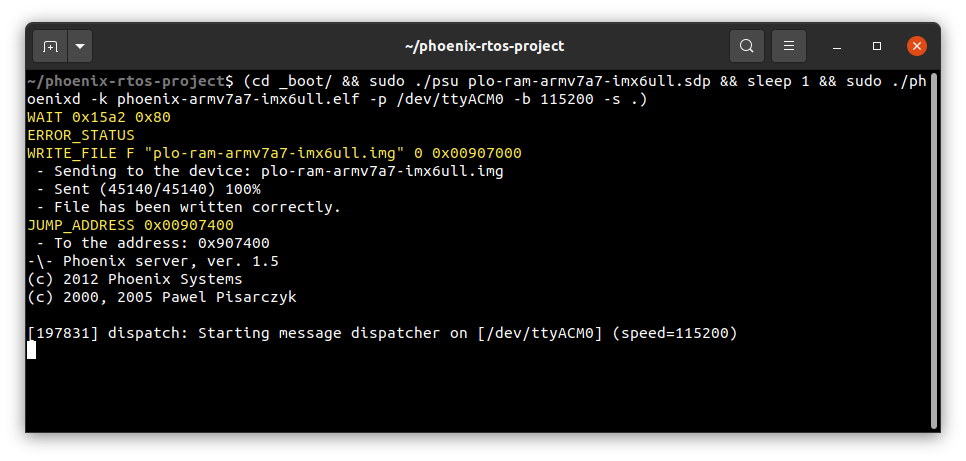
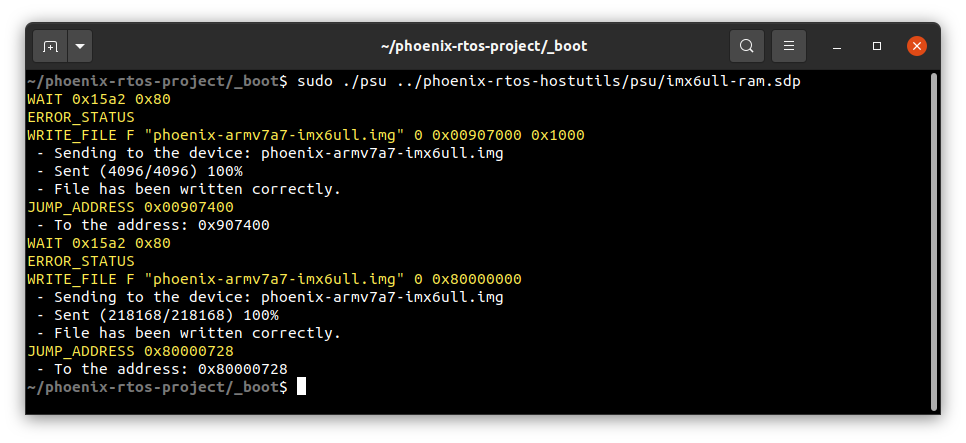
quickstart: update for armv7a7-imx6ull
DONE: PD-243

Changed region(s): [[0.0311, 0.0587, 0.9938, 0.9391], [0.4037, 0.088, 0.6211, 0.1174]]

diff --git a/quickstart/armv7a7-imx6ull.md b/quickstart/armv7a7-imx6ull.md
@@ -48,16 +48,7 @@ You can leave the terminal with the serial port open, and follow the next steps.
 
 ## Uploading the Phoenix-RTOS system image to RAM
 
-In order to place the disk image on the board, the bootloader (plo) image located in the `_boot` directory should be uploaded to the RAM using `psu` (Phoenix Serial Uploader) via SDP (Serial Download Protocol). Next, there has to be a short delay for the plo USB CDC device to appear. Then `phoenixd` should be launched to make copying programs from the `_boot` directory to the image possible. To do that follow the instructions below:
-
-- To properly run the system image, kernel and other used programs need to be provided in the `_boot` directory, so you should copy them from the `_build` directory:
-
-  ```
-  (cd _build/armv7a7-imx6ull/prog.stripped/ && \
-  cp phoenix-armv7a7-imx6ull.elf dummyfs imx6ull-uart psh ../../../_boot/)
-  ```
-
-  <img src="_images/imx6ull-cpy.png" width="600px">
+In order to place the disk image on the board, `psu` (Phoenix Serial Uploader) and the `imx6ull-ram.sdp` (Serial Download Protocol) script should be used. 
 
 - Make sure, that the SW602 switch is in the following configuration (serial downloader mode):
 
@@ -67,36 +58,17 @@ In order to place the disk image on the board, the bootloader (plo) image locate
 
   If it was in a different position you have to restart the board after the change and connect to the serial port a second time.
 
-- Change directory to `_boot` and run `psu` as follow:
+- Change directory to `_boot` and run `psu` as follows:
 
   ```
-  cd _boot/ && \
-  sudo ./psu plo-ram-armv7a7-imx6ull.sdp && \
-  sleep 1 && \
-  sudo ./phoenixd -k phoenix-armv7a7-imx6ull.elf -p /dev/ttyACM0 -b 115200 -s .
+  sudo ./psu ../phoenix-rtos-hostutils/psu/imx6ull-ram.sdp
   ```
 
   <img src="_images/imx6ull-psu.png" width="600px">
 
-The plo user interface should appear in the console.
+- If everything has gone correctly, Phoenix-RTOS with the default configuration and the `psh` shell command prompt will appear in the terminal.
 
-<img src="_images/imx6ull-plo.png" width="600px">
-
-To get the available bootloader command list please type:
-
-```
-help
-```
-
-<img src="_images/imx6ull-plo-help.png" width="600px">
-
-Now you can start PhoenixRTOS by typing:
-
-```bash
-go!
-```
-
-<img src="_images/imx6ull-psh.png" width="600px">
+  <img src="_images/imx6ull-psh.png" width="600px">
 
 ## Using Phoenix-RTOS
 
